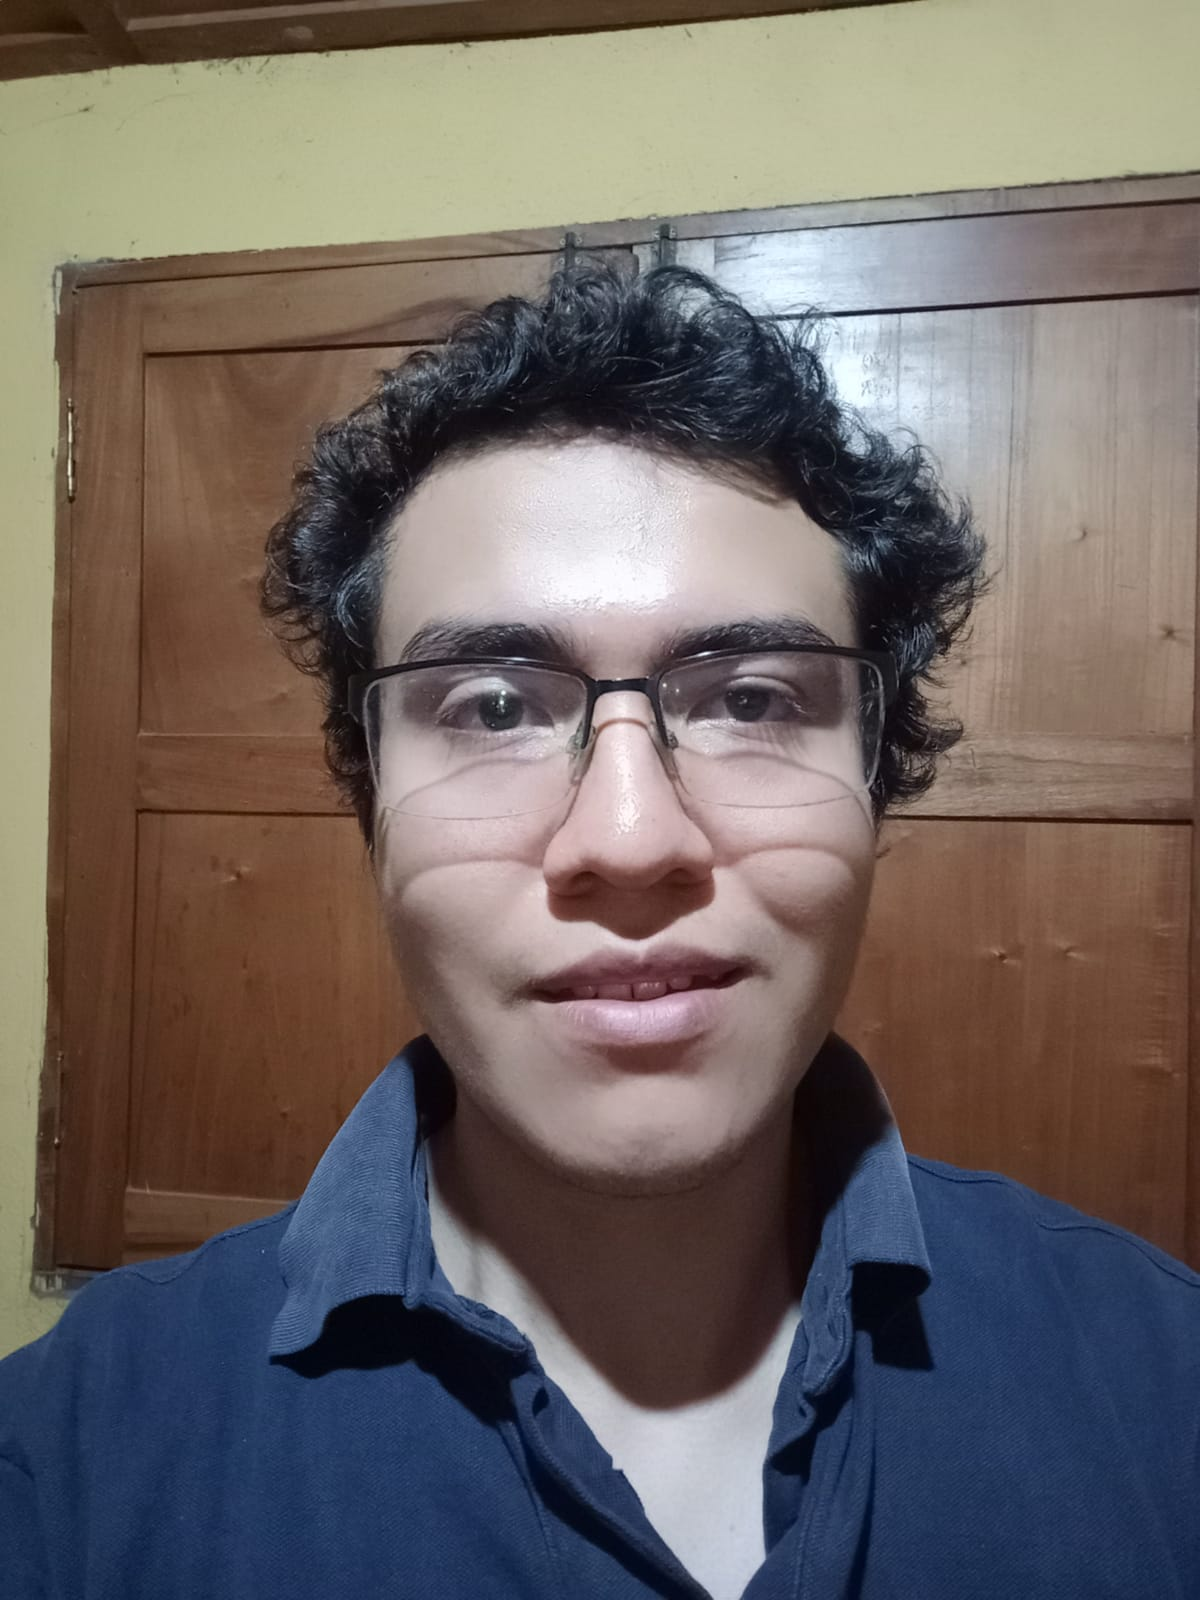
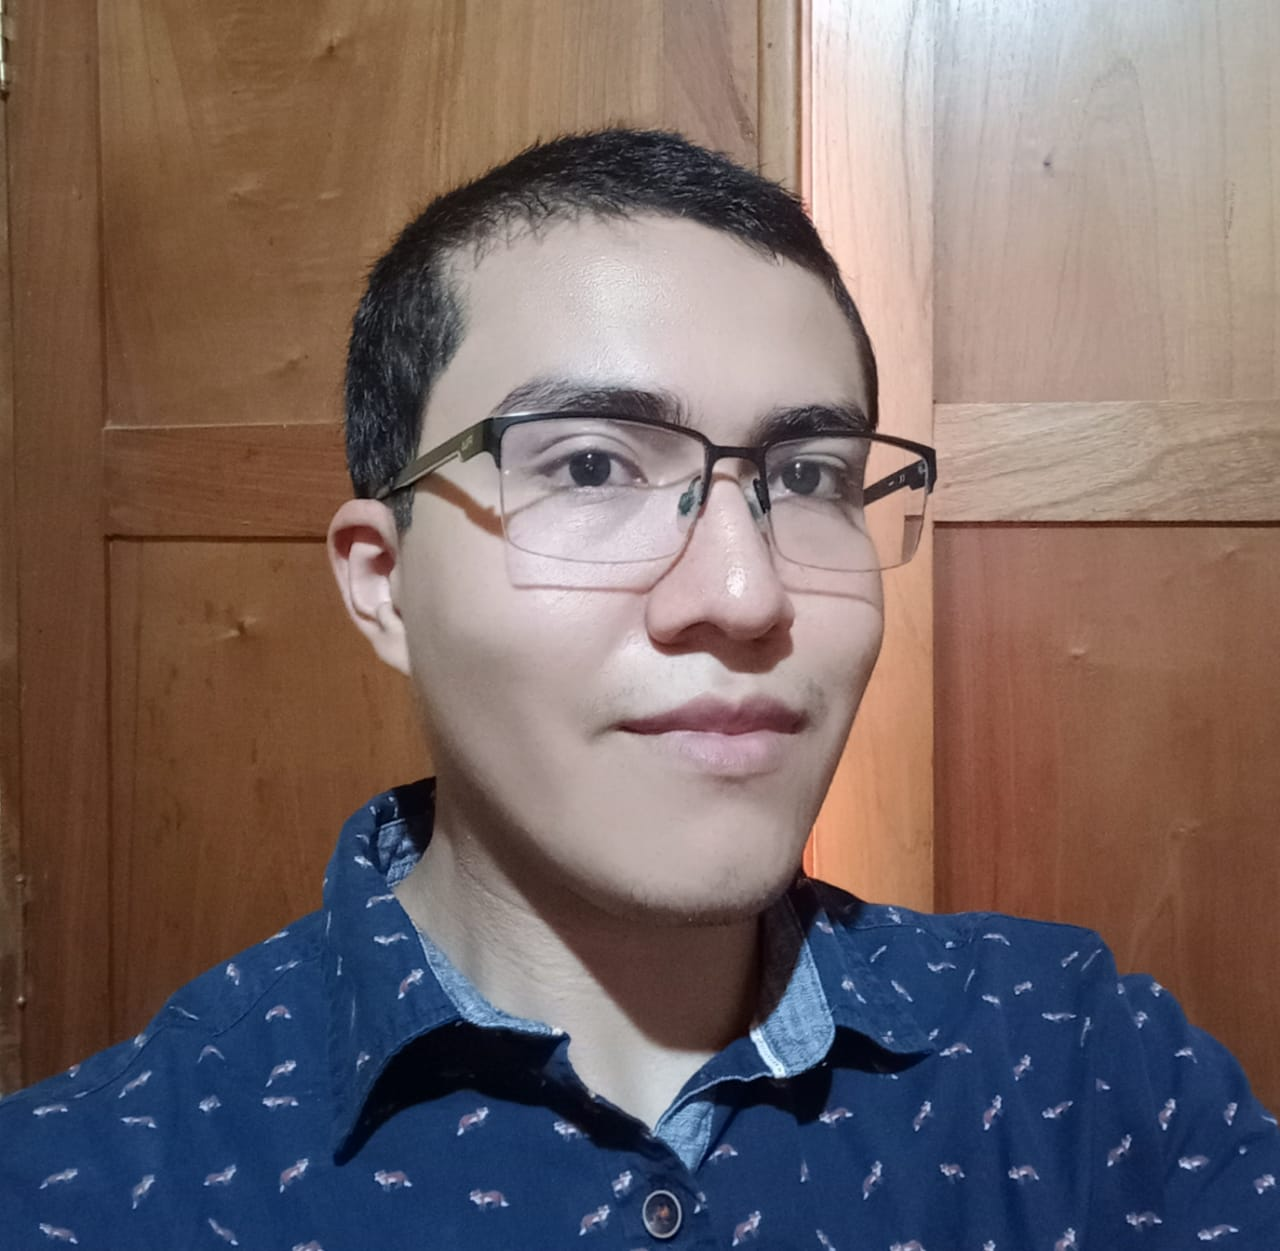
Changed my photo, and added photos for hobbies

diff --git a/hobies.html b/hobies.html
@@ -8,7 +8,13 @@
     <h1>My hobies</h1>
     <ul>
         <li>Papercraft</li>
+        <img src="images/going-merry.jpeg" width="20%" height="19%">
+        <img src="images/Meta Knigth.jpeg" width="20%" height="19%">
+
         <li>Pixel art</li>
+        <img src="images/AngelFish.gif" width="20%" height="20%">
+        <img src="images/Frogonimation.gif" width="20%" height="20%">
+
         <li>Reading</li>
     </ul>
 </body>

diff --git a/index.html b/index.html
@@ -3,7 +3,7 @@
     <title>My resume</title>
 </head>
 <body>
-    <img src="images/me.jpeg" width="150" height="200">
+    <img src="images/me.jpeg" width="20%" length="19%" alt="It's Me!">
     <h1>Summary</h1>
         <p>I am a trustworthy and responsible person, with experience
             in helpdesk support.

diff --git a/contact_me.html b/contact_me.html
@@ -1,7 +1,7 @@
 <!DOCTYPE html>
 <head>Contact me</head>
 <body>
-    <h1>My contacts</h1>
+    <h1>Want to get in touch? here are my contacts</h1>
 
     <h2>Email</h2>
         <p>jose.p.lopez.n@gmail.com</p>
